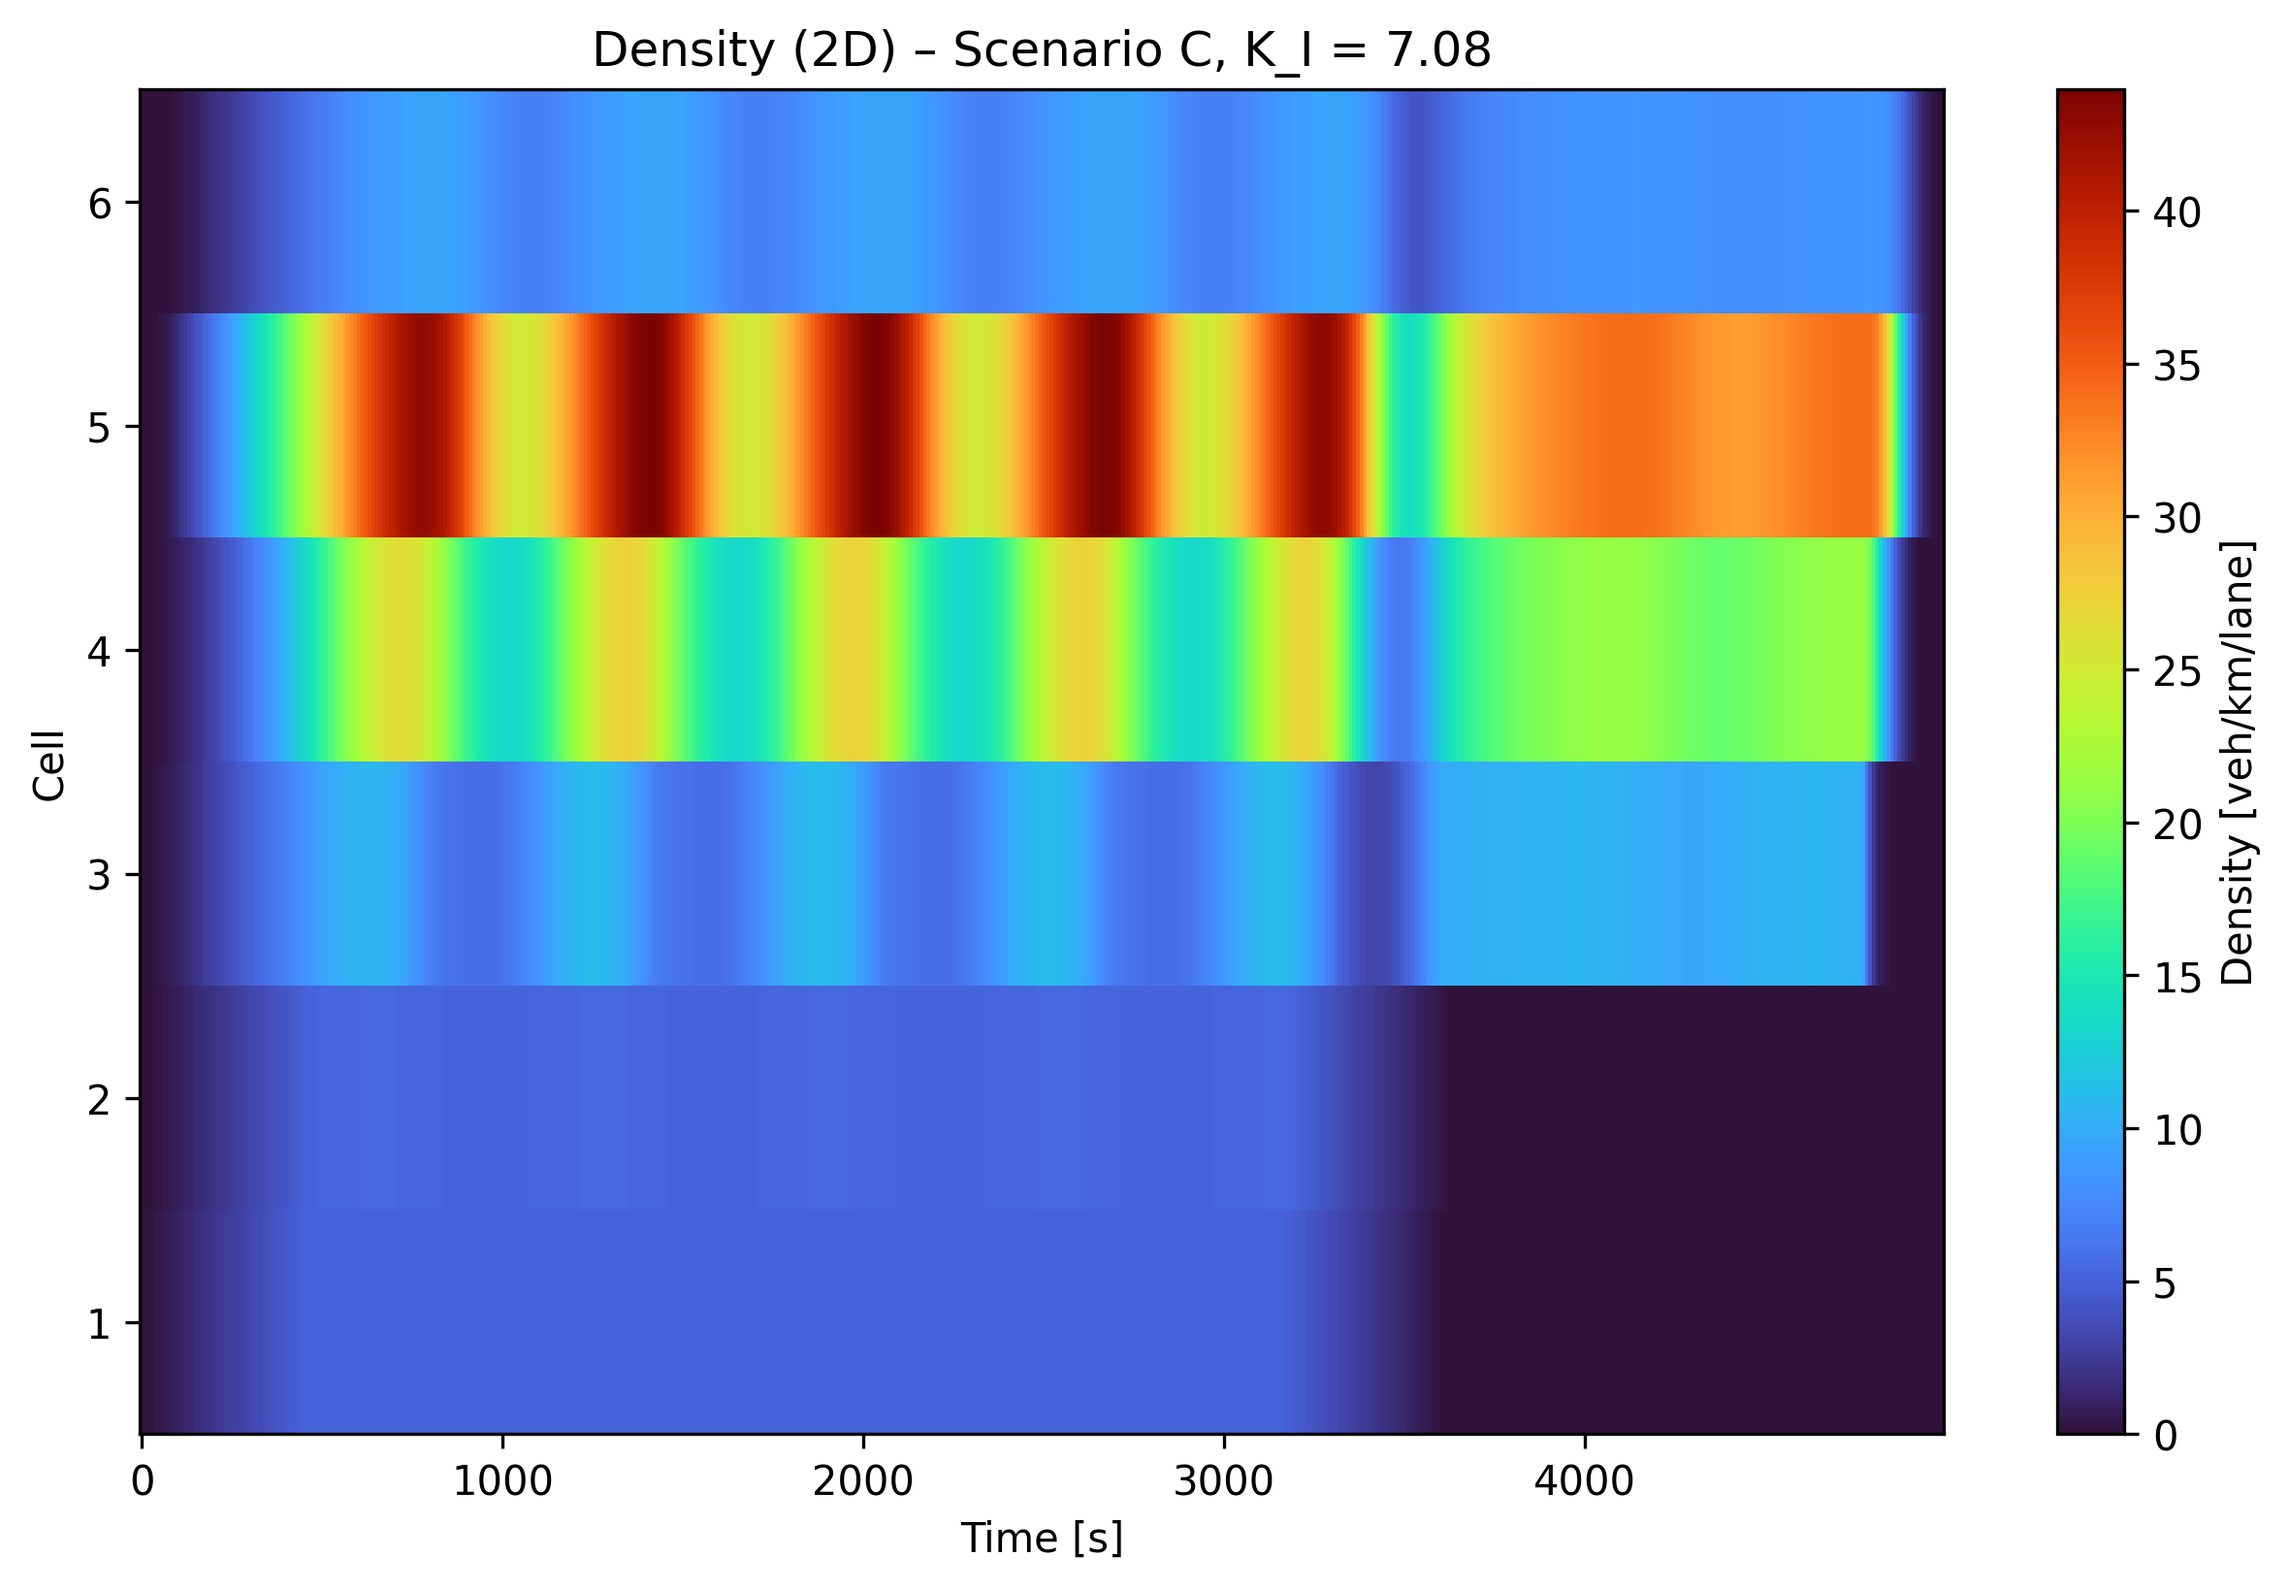
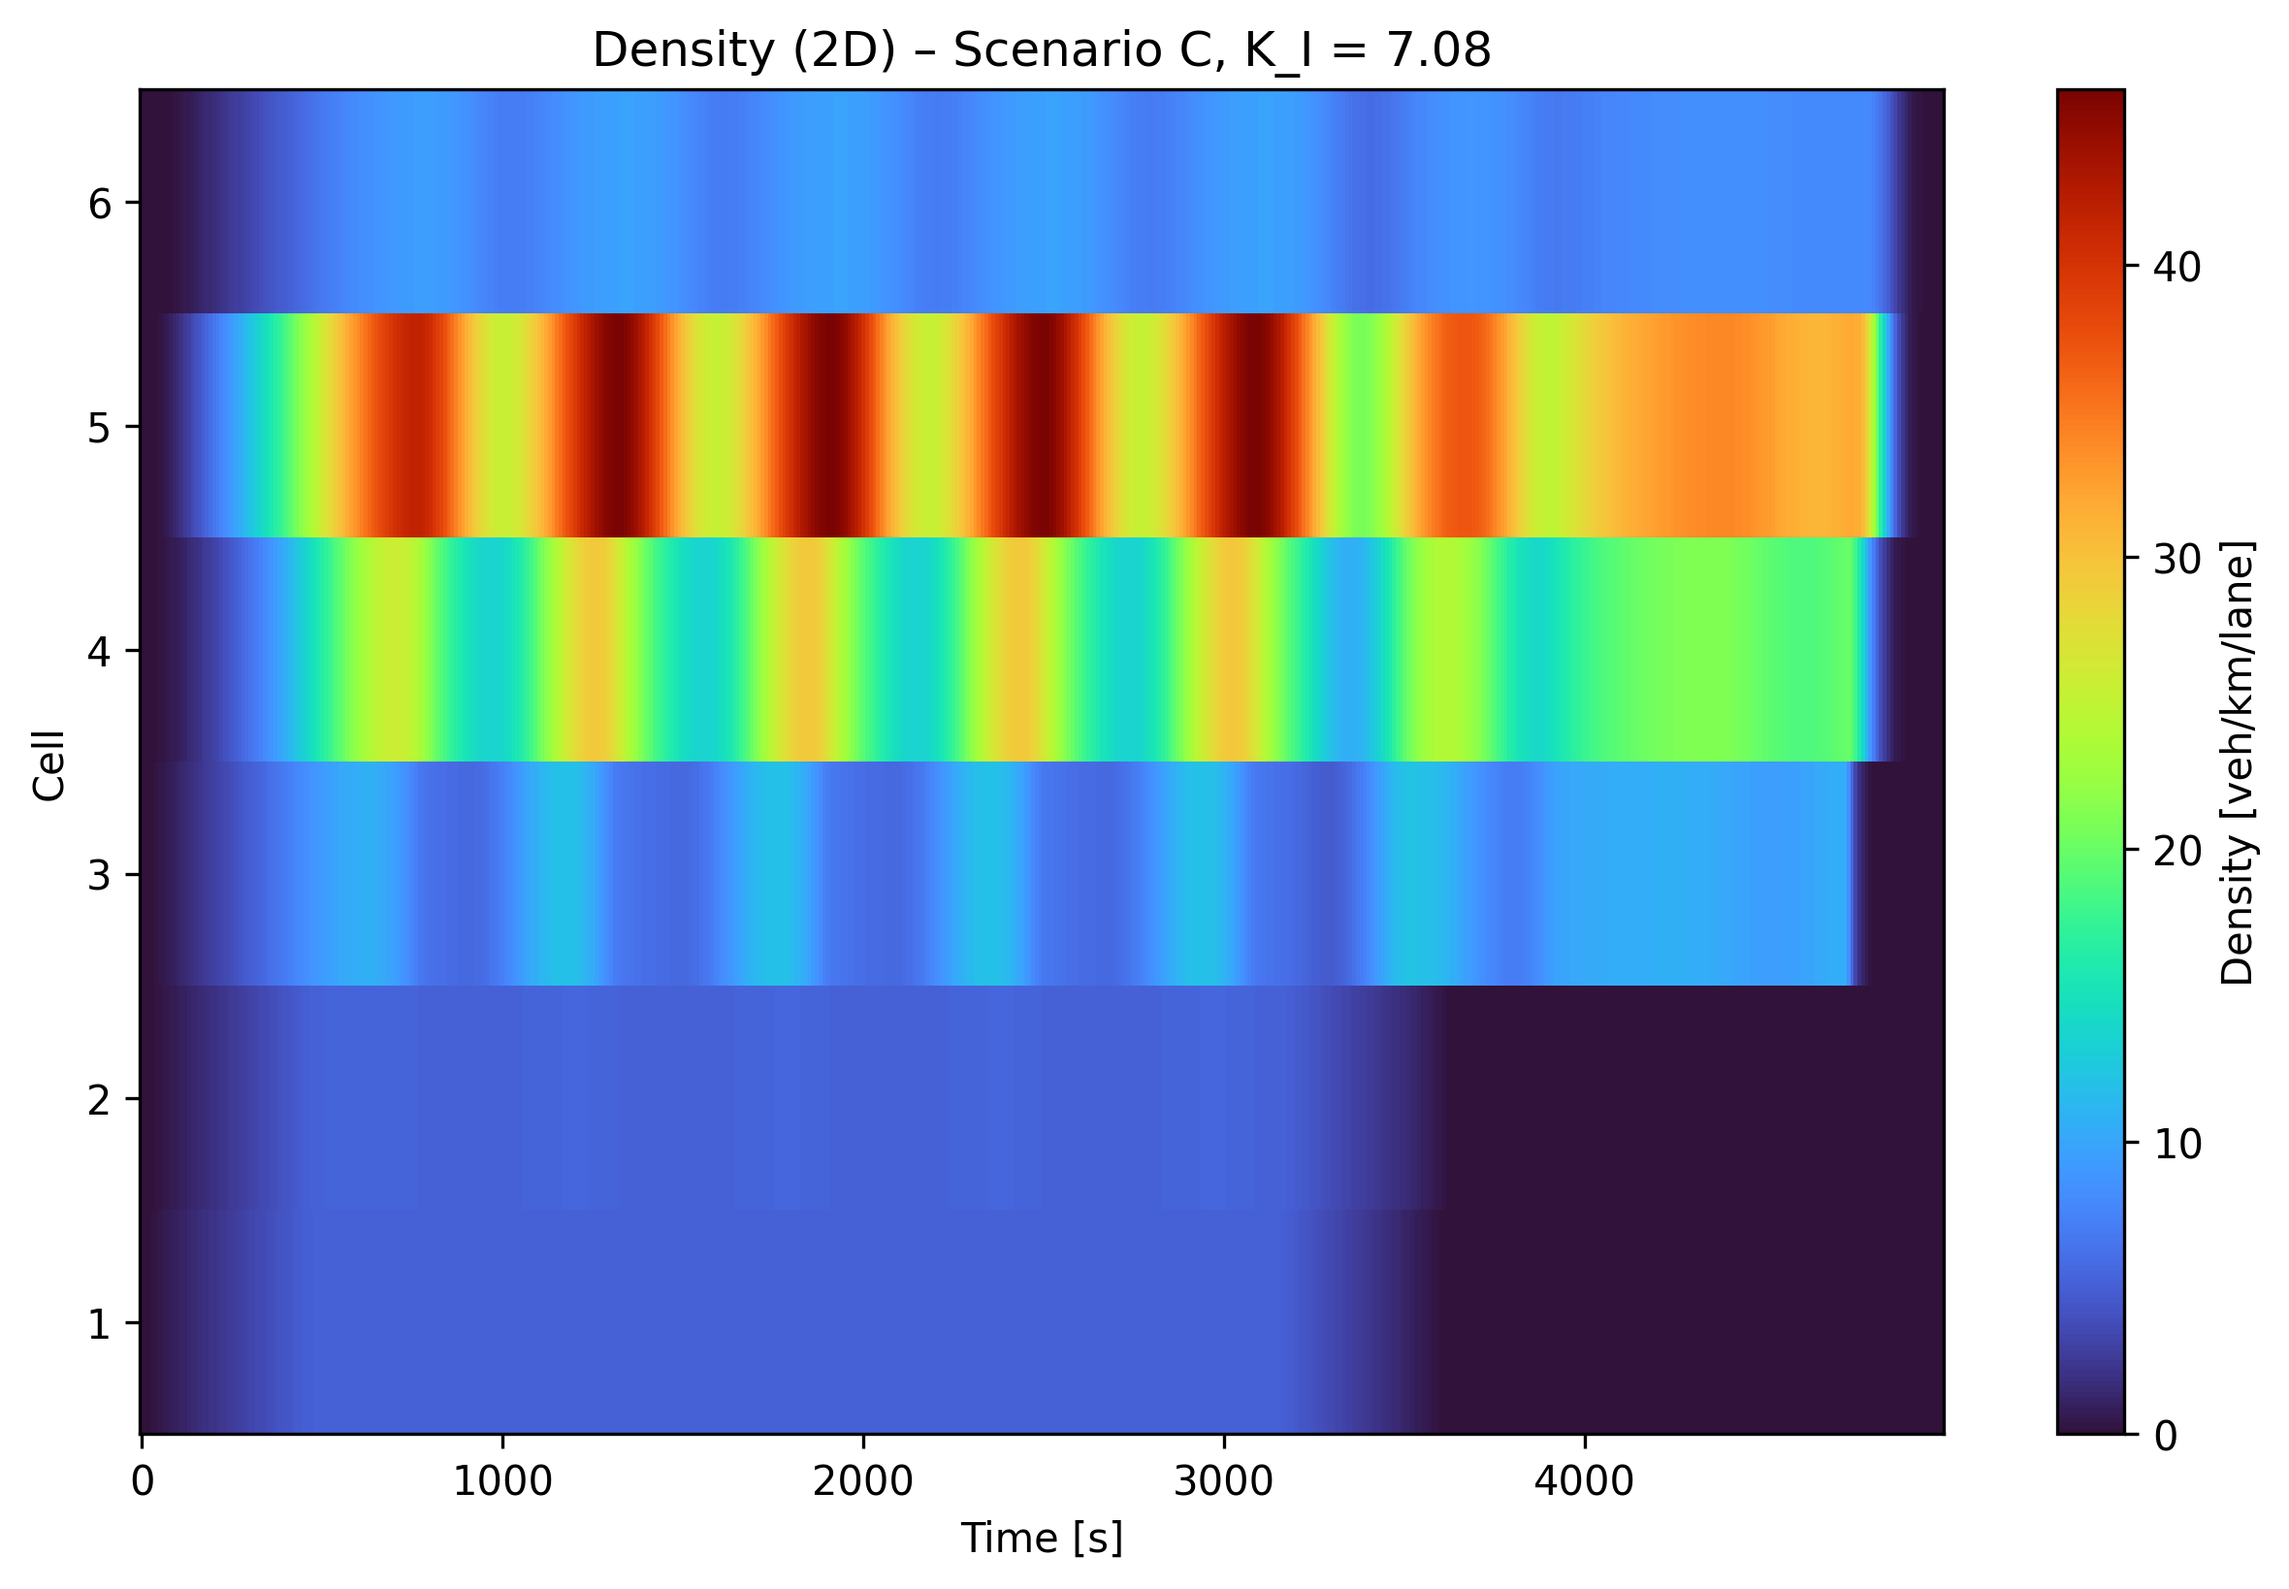
Added a branch for experimentation

diff --git a/Exercise2/metanet_model.py b/Exercise2/metanet_model.py
@@ -46,6 +46,7 @@ def run_metanet(
     d_ramp_peak,
     lanes,
     K_I=0.0,
+    K_P=0.0,
     measured_cell=None,
     lane_drop_cell=None,
 ):
@@ -101,7 +102,7 @@ def run_metanet(
         q_in = min(arrivals_main, Q_lane * lanes[0], max(0.0, supply_main))
         queue_main = max(0.0, queue_main + T_step * (d_main - q_in))
 
-        # ramp with ALINEA
+        # ramp with ALINEA (now PI)
         arrivals_ramp = d_ramp + queue_ramp / T_step
         supply_ramp = w_back * (rho_max - density[merge_cell]) * lanes[merge_cell]
         q_supply = max(0.0, supply_ramp)
@@ -109,23 +110,26 @@ def run_metanet(
         ramp_lanes = 1.0
         q_ramp_max = Q_lane * ramp_lanes
 
-        if K_I > 0.0 and measured_cell is not None:
+        if (K_I > 0.0 or K_P > 0.0) and measured_cell is not None:
             rho_meas = density[measured_cell]
-            # ALINEA integrator update using separate command state
-            r_cmd = r_prev_cmd + K_I * (rho_crit - rho_meas)
+            error = rho_crit - rho_meas
+            # PI action: integrator plus proportional correction
+            r_cmd = r_prev_cmd + K_I * error + K_P * error
             r_cmd = max(0.0, r_cmd)
         else:
             r_cmd = arrivals_ramp
 
         # Apply actuator/supply bounds
         q_ramp = min(r_cmd, arrivals_ramp, q_ramp_max, q_supply)
-        
+
         # Anti-windup: update integrator state only when command is not saturated
-        if K_I > 0.0 and measured_cell is not None:
+        if (K_I > 0.0 or K_P > 0.0) and measured_cell is not None:
+            # update integrator state only when not saturated (prevent windup)
             if abs(q_ramp - r_cmd) < 1e-9:
+                # only the integrator part is stateful; storing full command keeps consistency
                 r_prev_cmd = r_cmd
             # else: keep r_prev_cmd unchanged (anti-windup)
-        
+
         queue_ramp = max(0.0, queue_ramp + T_step * (d_ramp - q_ramp))
 
         # current density

diff --git a/Exercise2/run_alinea.py b/Exercise2/run_alinea.py
@@ -190,7 +190,7 @@ if __name__ == "__main__":
     plt.grid(True)
     plt.show()
 
-    best_C = run_metanet(dC_main, dC_ramp, lanes_C, K_I=K_opt_C, measured_cell=4, lane_drop_cell=3)
+    best_C = run_metanet(dC_main, dC_ramp, lanes_C, K_I=K_opt_C, K_P=3, measured_cell=4, lane_drop_cell=3)
     print("Scenario C with ALINEA (K_opt)")
     print(f"  VKT = {best_C['vkt']:.1f} veh·km")
     print(f"  VHT = {best_C['vht']:.1f} veh·h")
